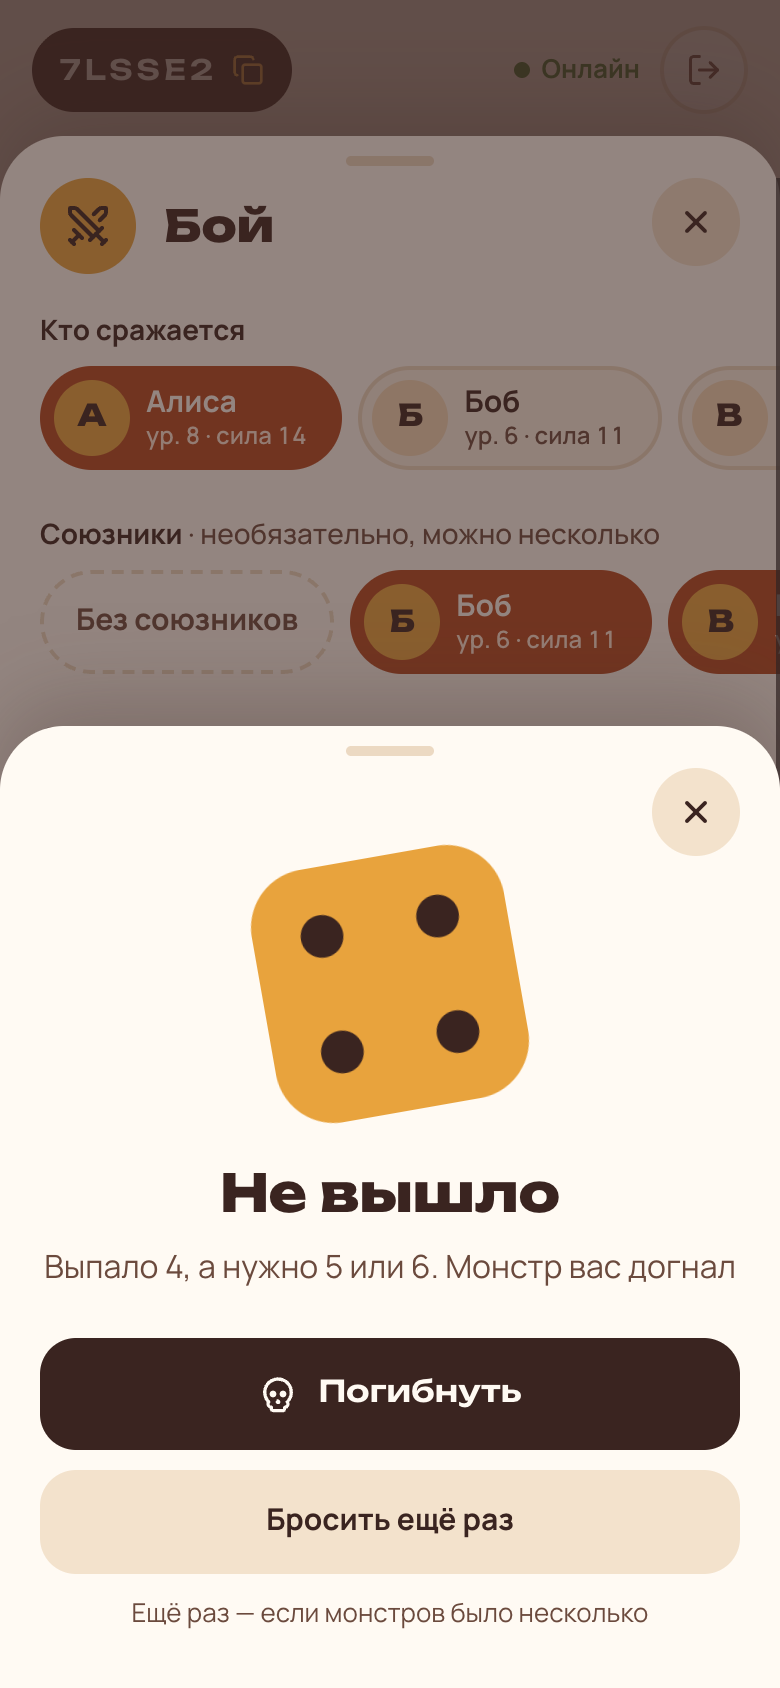
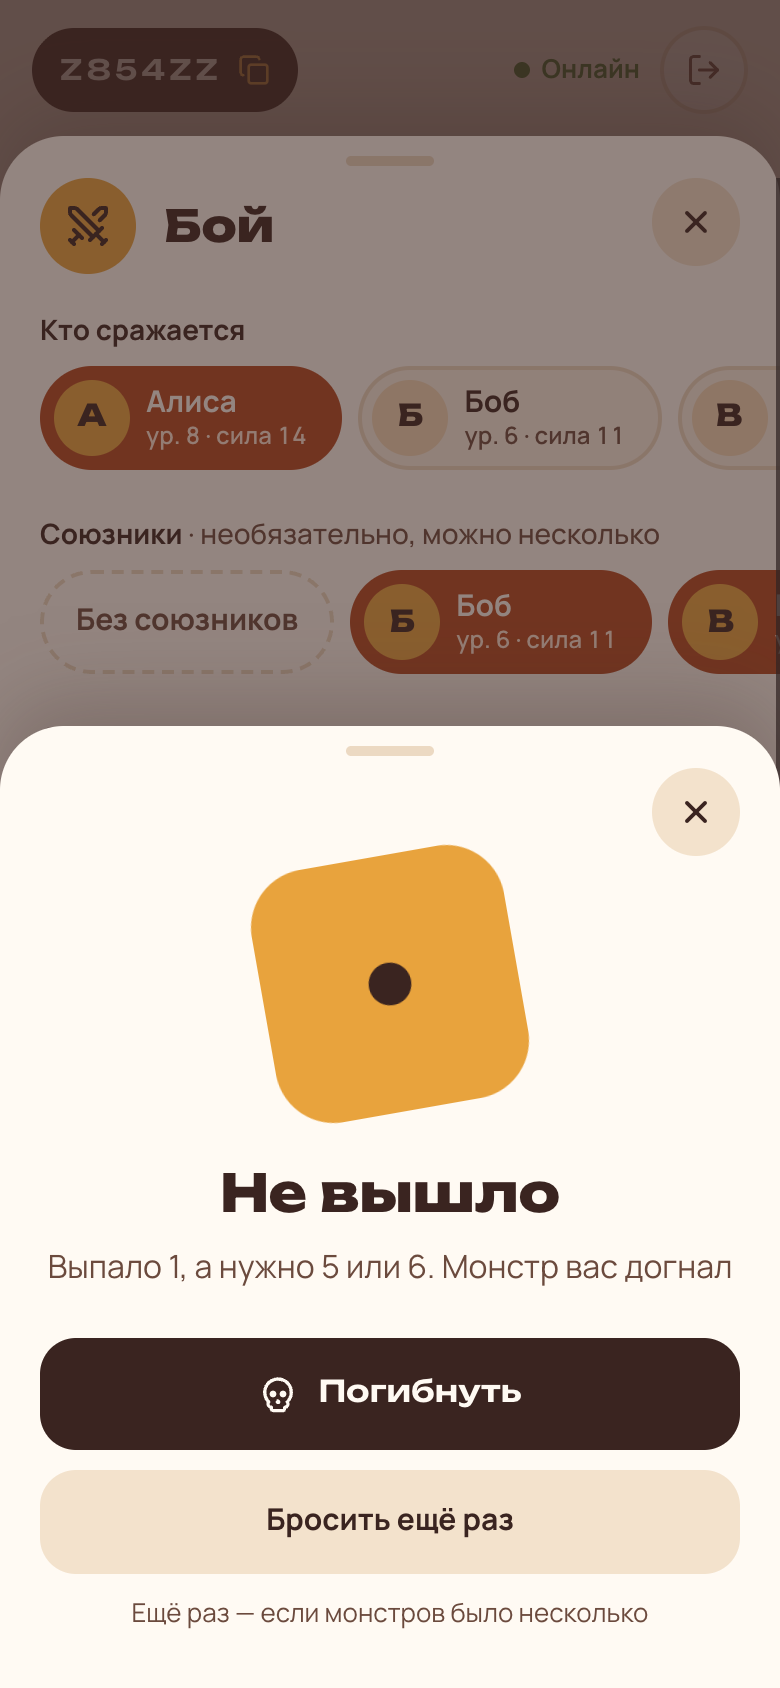
feat(web): leave and death confirmations are bottom sheets too
Same handle, close button and tap-outside as every other sheet.

diff --git a/apps/web/src/components/ui/sheet.tsx b/apps/web/src/components/ui/sheet.tsx
@@ -8,6 +8,13 @@ export const Sheet = DialogPrimitive.Root
 export const SheetTrigger = DialogPrimitive.Trigger
 export const SheetClose = DialogPrimitive.Close
 
+const sheetClass =
+  'fixed inset-x-0 bottom-0 z-50 mx-auto flex max-h-[92dvh] w-full max-w-lg flex-col rounded-t-[32px] bg-card text-card-foreground shadow-[0_-12px_40px_rgba(58,36,32,0.25)] outline-none duration-300 ease-out data-open:animate-in data-open:slide-in-from-bottom data-closed:animate-out data-closed:slide-out-to-bottom'
+const handleClass = 'mx-auto mt-2.5 mb-1.5 h-[5px] w-11 shrink-0 rounded-full bg-border'
+const scrollClass = 'overflow-y-auto overscroll-contain px-5 pb-[max(1.75rem,env(safe-area-inset-bottom))]'
+const closeClass =
+  'flex size-11 shrink-0 items-center justify-center rounded-full bg-secondary text-foreground transition-transform outline-none focus-visible:ring-3 focus-visible:ring-ring/50 active:scale-95'
+
 const overlayClass =
   'fixed inset-0 z-50 bg-cocoa/55 duration-200 data-open:animate-in data-open:fade-in-0 data-closed:animate-out data-closed:fade-out-0'
 
@@ -40,15 +47,11 @@ export function SheetContent({
       <DialogPrimitive.Overlay className={overlayClass} />
       <DialogPrimitive.Content
         {...(description ? {} : { 'aria-describedby': undefined })}
-        className={cn(
-          'fixed inset-x-0 bottom-0 z-50 mx-auto flex max-h-[92dvh] w-full max-w-lg flex-col rounded-t-[32px] bg-card text-card-foreground shadow-[0_-12px_40px_rgba(58,36,32,0.25)] outline-none',
-          'duration-300 ease-out data-open:animate-in data-open:slide-in-from-bottom data-closed:animate-out data-closed:slide-out-to-bottom',
-          className,
-        )}
+        className={cn(sheetClass, className)}
         {...props}
       >
-        <div className="mx-auto mt-2.5 mb-1.5 h-[5px] w-11 shrink-0 rounded-full bg-border" aria-hidden="true" />
-        <div className="overflow-y-auto overscroll-contain px-5 pb-[max(1.75rem,env(safe-area-inset-bottom))]">
+        <div className={handleClass} aria-hidden="true" />
+        <div className={scrollClass}>
           <div className={cn('flex items-start justify-between gap-3', hideTitle && 'justify-end')}>
             <div className="flex min-w-0 items-center gap-3.5">
               {icon && (
@@ -63,10 +66,7 @@ export function SheetContent({
                 </DialogPrimitive.Title>
               </div>
             </div>
-            <DialogPrimitive.Close
-              aria-label="Закрыть"
-              className="flex size-11 shrink-0 items-center justify-center rounded-full bg-secondary text-foreground transition-transform outline-none focus-visible:ring-3 focus-visible:ring-ring/50 active:scale-95"
-            >
+            <DialogPrimitive.Close aria-label="Закрыть" className={closeClass}>
               <X className="size-[18px]" strokeWidth={2.5} aria-hidden="true" />
             </DialogPrimitive.Close>
           </div>
@@ -97,28 +97,37 @@ interface ConfirmDialogProps {
   onConfirm: () => void
 }
 
-/** Centered confirmation for actions that are hard to undo. */
+/** A sheet like the others, for confirming actions that are hard to undo. */
 export function ConfirmDialog({ open, onOpenChange, title, description, art, children, confirmLabel, cancelLabel, onConfirm }: ConfirmDialogProps) {
   return (
     <AlertDialogPrimitive.Root open={open} onOpenChange={onOpenChange}>
       <AlertDialogPrimitive.Portal>
-        <AlertDialogPrimitive.Overlay className={overlayClass} />
-        <AlertDialogPrimitive.Content className="fixed top-1/2 left-1/2 z-50 max-h-[92dvh] w-[calc(100%-2.5rem)] max-w-sm -translate-x-1/2 overflow-y-auto -translate-y-1/2 rounded-[30px] bg-card px-[22px] pt-[26px] pb-5 text-center text-card-foreground shadow-[0_20px_50px_rgba(58,36,32,0.35)] outline-none duration-200 data-open:animate-in data-open:fade-in-0 data-open:zoom-in-95 data-closed:animate-out data-closed:fade-out-0 data-closed:zoom-out-95">
-          {art}
-          <AlertDialogPrimitive.Title className="mt-4 font-display text-[22px] leading-tight font-extrabold">{title}</AlertDialogPrimitive.Title>
-          <AlertDialogPrimitive.Description className="mt-2.5 text-[15px] leading-snug text-muted-foreground">
-            {description}
-          </AlertDialogPrimitive.Description>
-          {children}
-          <AlertDialogPrimitive.Action
-            onClick={onConfirm}
-            className="mt-[22px] h-14 w-full rounded-[18px] bg-cocoa font-display text-[15px] font-semibold text-primary-foreground transition-transform outline-none focus-visible:ring-3 focus-visible:ring-ring/50 active:scale-[0.98]"
-          >
-            {confirmLabel}
-          </AlertDialogPrimitive.Action>
-          <AlertDialogPrimitive.Cancel className="mt-2 h-[50px] w-full rounded-[18px] text-[15px] font-bold outline-none hover:bg-secondary focus-visible:ring-3 focus-visible:ring-ring/50">
-            {cancelLabel}
-          </AlertDialogPrimitive.Cancel>
+        {/* An alert dialog ignores taps outside by default; every other sheet closes on them */}
+        <AlertDialogPrimitive.Overlay className={overlayClass} onClick={() => onOpenChange(false)} />
+        <AlertDialogPrimitive.Content className={sheetClass}>
+          <div className={handleClass} aria-hidden="true" />
+          <div className={cn(scrollClass, 'text-center')}>
+            <div className="flex justify-end">
+              <AlertDialogPrimitive.Cancel aria-label="Закрыть" className={closeClass}>
+                <X className="size-[18px]" strokeWidth={2.5} aria-hidden="true" />
+              </AlertDialogPrimitive.Cancel>
+            </div>
+            <div className="-mt-6">{art}</div>
+            <AlertDialogPrimitive.Title className="mt-4 font-display text-[22px] leading-tight font-extrabold">{title}</AlertDialogPrimitive.Title>
+            <AlertDialogPrimitive.Description className="mt-2.5 text-[15px] leading-snug text-muted-foreground">
+              {description}
+            </AlertDialogPrimitive.Description>
+            {children}
+            <AlertDialogPrimitive.Action
+              onClick={onConfirm}
+              className="mt-[22px] h-14 w-full rounded-[18px] bg-cocoa font-display text-[15px] font-semibold text-primary-foreground transition-transform outline-none focus-visible:ring-3 focus-visible:ring-ring/50 active:scale-[0.98]"
+            >
+              {confirmLabel}
+            </AlertDialogPrimitive.Action>
+            <AlertDialogPrimitive.Cancel className="mt-2 h-[50px] w-full rounded-[18px] text-[15px] font-bold outline-none hover:bg-secondary focus-visible:ring-3 focus-visible:ring-ring/50">
+              {cancelLabel}
+            </AlertDialogPrimitive.Cancel>
+          </div>
         </AlertDialogPrimitive.Content>
       </AlertDialogPrimitive.Portal>
     </AlertDialogPrimitive.Root>

diff --git a/apps/web/src/pages/RoomPage.test.tsx b/apps/web/src/pages/RoomPage.test.tsx
@@ -94,6 +94,12 @@ describe('RoomPage in a game', () => {
     await userEvent.click(screen.getByRole('button', { name: 'Остаться' }))
     expect(leaveRoom).not.toHaveBeenCalled()
 
+    // Like every other sheet: the cross closes it without leaving
+    await userEvent.click(screen.getByRole('button', { name: 'Выйти из комнаты' }))
+    await userEvent.click(within(await screen.findByRole('alertdialog')).getByRole('button', { name: 'Закрыть' }))
+    expect(leaveRoom).not.toHaveBeenCalled()
+    expect(screen.queryByRole('alertdialog')).not.toBeInTheDocument()
+
     await userEvent.click(screen.getByRole('button', { name: 'Выйти из комнаты' }))
     await userEvent.click(await screen.findByRole('button', { name: 'Выйти' }))
     expect(leaveRoom).toHaveBeenCalled()
